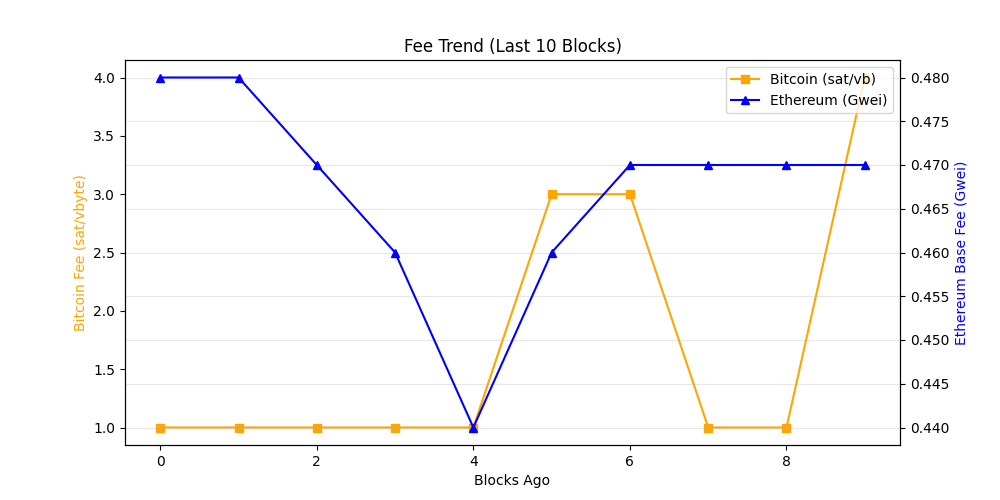
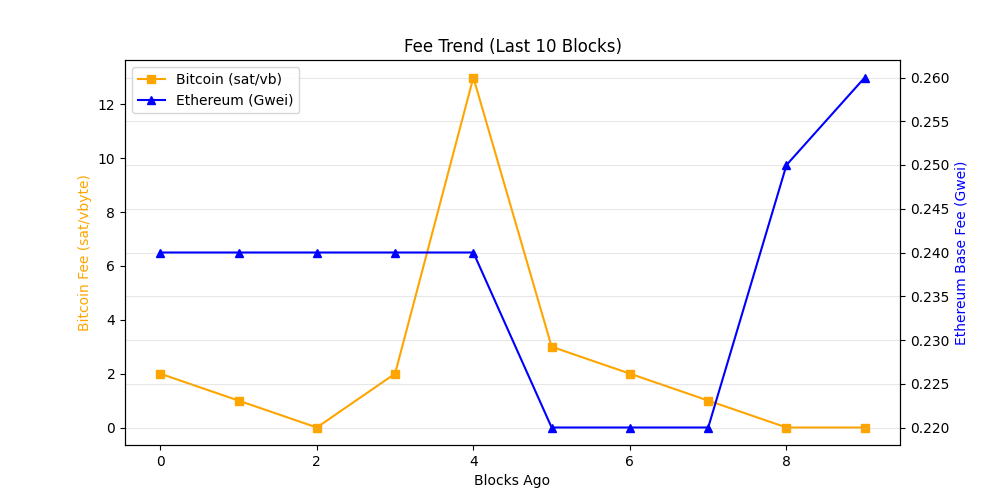
chore: update on-chain dashboard

diff --git a/README.md b/README.md
@@ -19,7 +19,7 @@ The README itself acts as the dashboard and is regenerated automatically on a 6 
 demonstrating a production-style, infrastructure-focused observability workflow rather
 than a traditional UI-driven approach.
 
-_Last updated: 2026-06-23 15:23 UTC_
+_Last updated: 2026-06-23 20:21 UTC_
 
 ## API Usage (GetBlock.io)
 - Calls used: **24**
@@ -27,8 +27,8 @@ _Last updated: 2026-06-23 15:23 UTC_
 ## Network Metrics
 | Chain | Block Height | TX Count | TPS (10 blk avg) | Block Util | Avg Fee |
 |------|-------------|----------|------------------|------------|---------|
-| Ethereum | 25381181 | 333 | 27.75 | 59.51% | 0.5 Gwei |
-| Bitcoin | 955018 | 4548 | 2.69 | 99.8% | N/A |
+| Ethereum | 25382662 | 764 | 63.67 | 66.62% | 0.3 Gwei |
+| Bitcoin | 955054 | 6485 | 463.21 | 99.79% | N/A |
 
 ## Visuals
 ### Transactions Trend
@@ -43,11 +43,7 @@ _Last updated: 2026-06-23 15:23 UTC_
 ## Whale Alerts (latest block)
 - Transaction hashes are truncated for readability.
 - Full hashes are available in `dashboards/metrics.json`
-- Bitcoin | 1425.67 BTC | `4bce095e29d8…`
-- Bitcoin | 116.34 BTC | `5e82e1b296f1…`
-- Bitcoin | 357.9 BTC | `1465427bc2f0…`
-- Bitcoin | 110.51 BTC | `64e2903ad072…`
-- Bitcoin | 116.95 BTC | `ea90d67384c3…`
+No whale-sized transfers detected in latest blocks.
 
 ## Run locally
 
